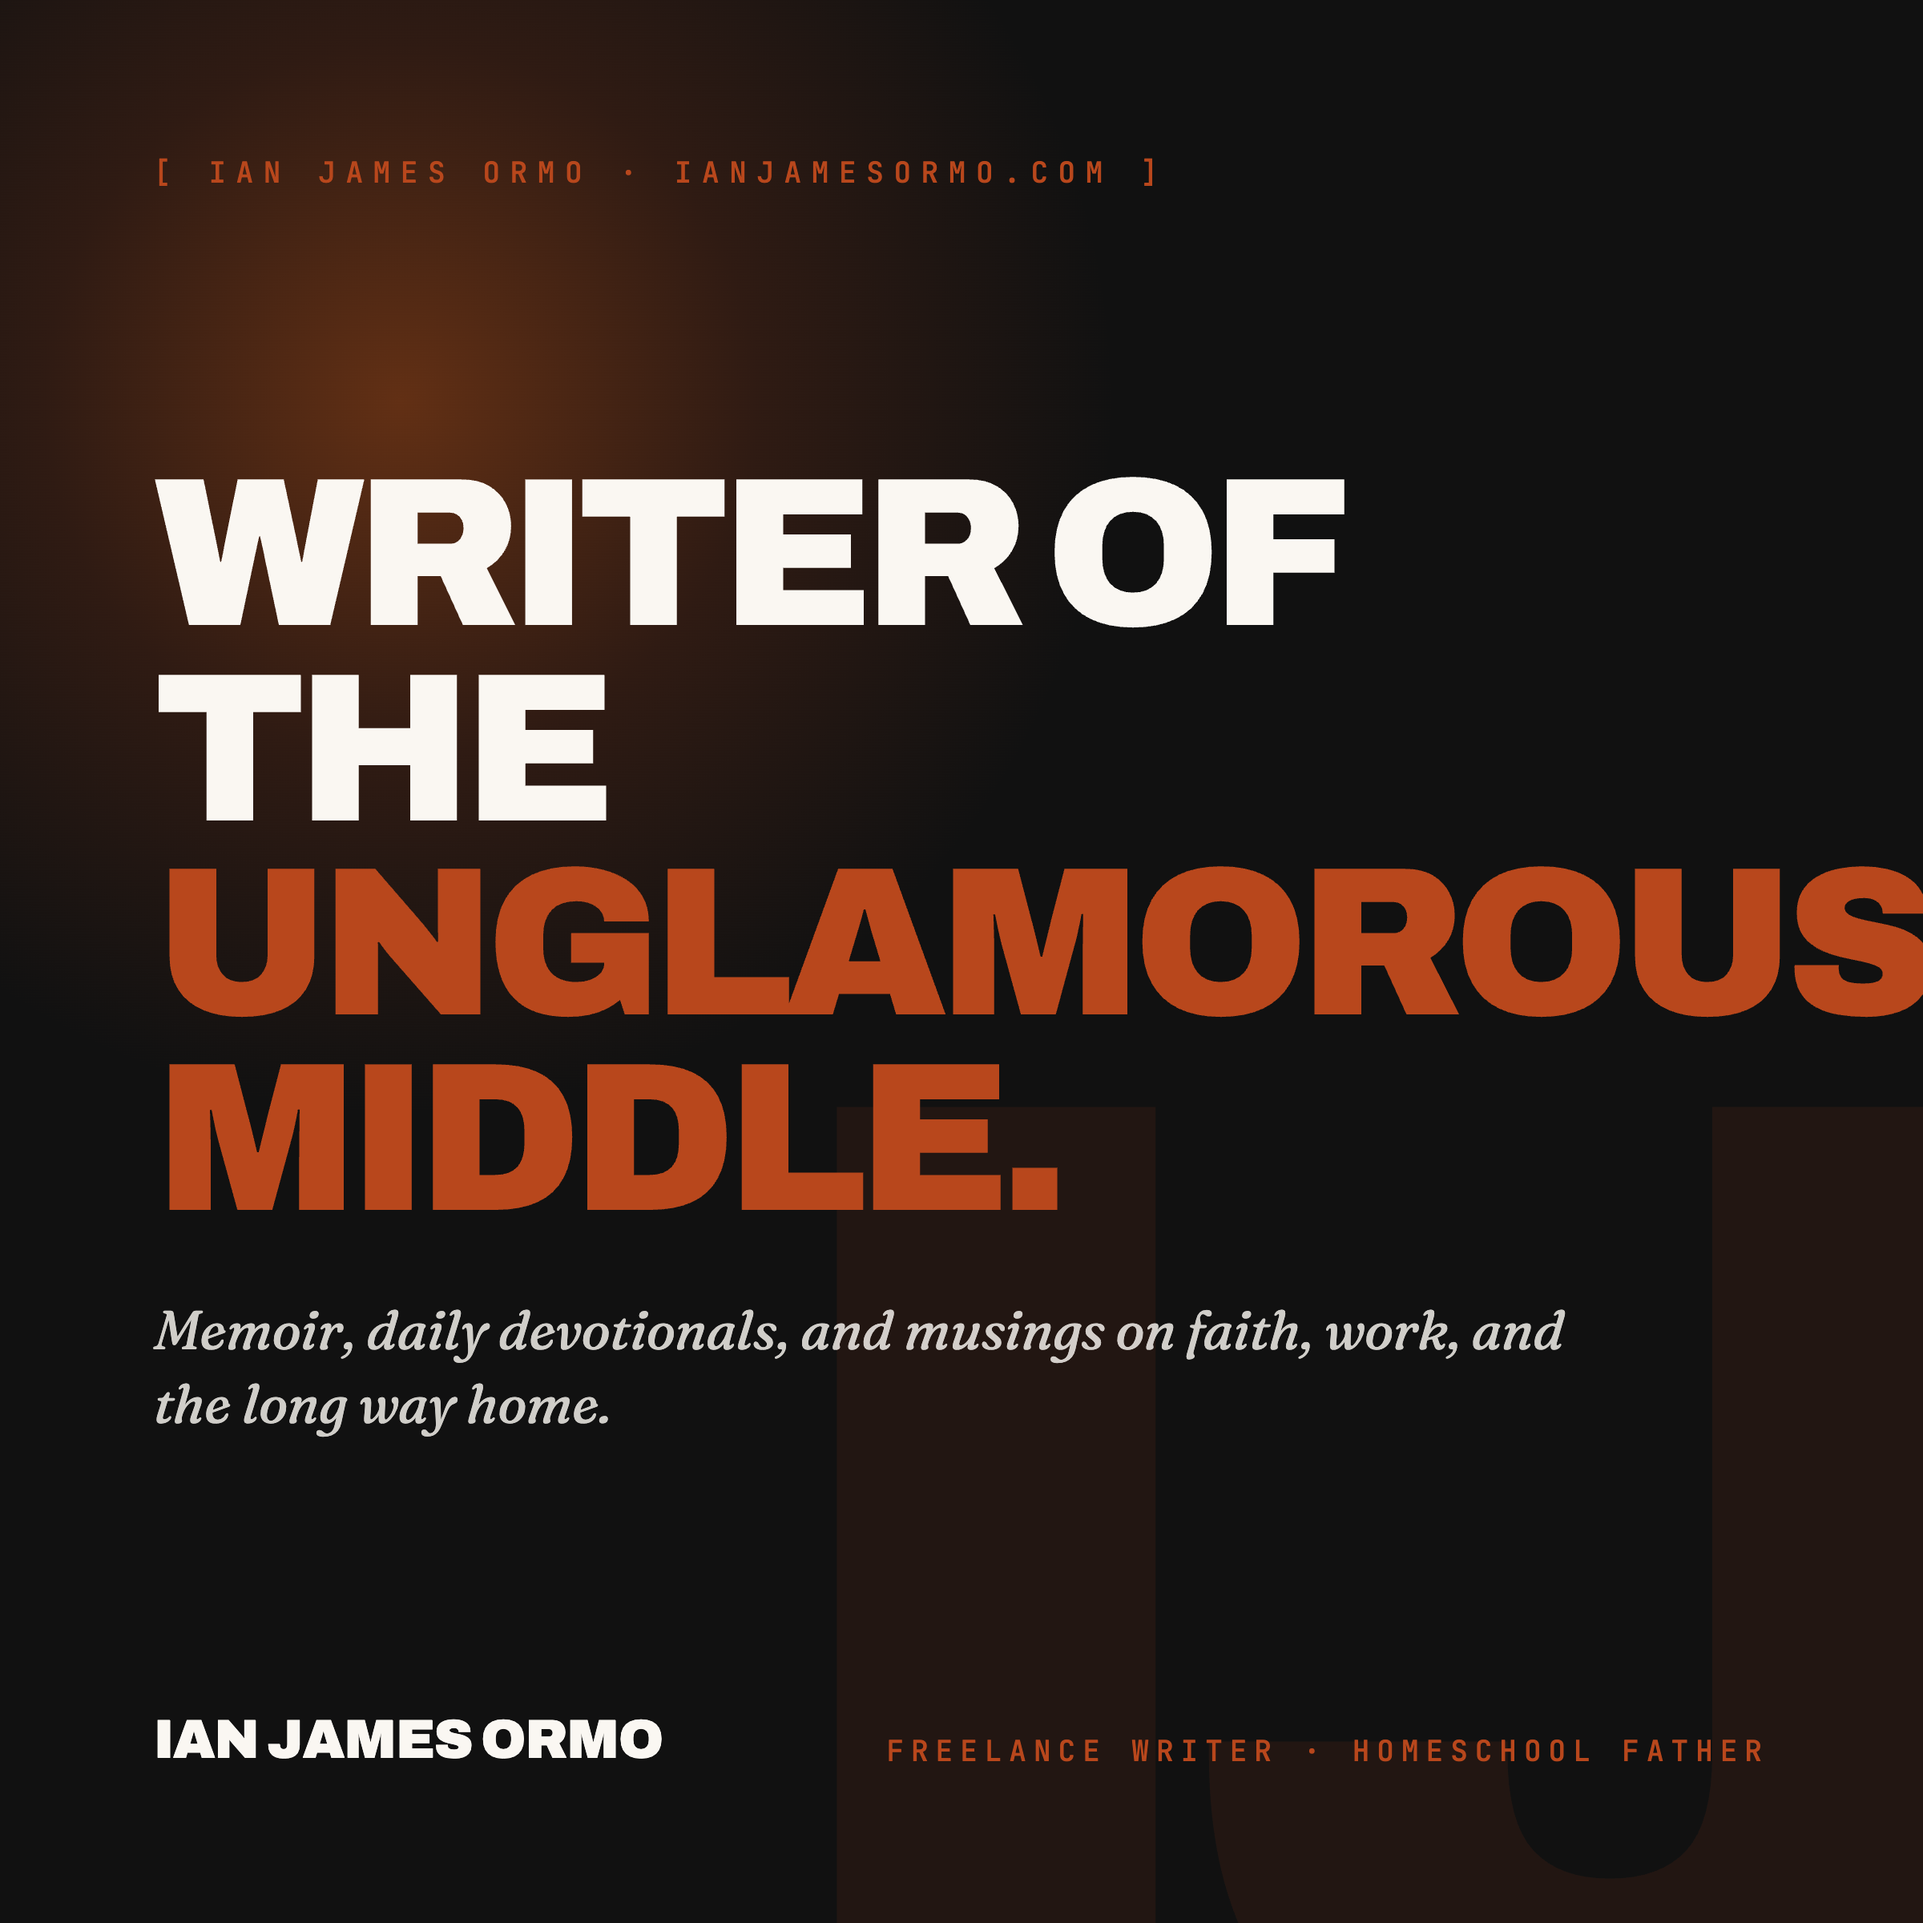
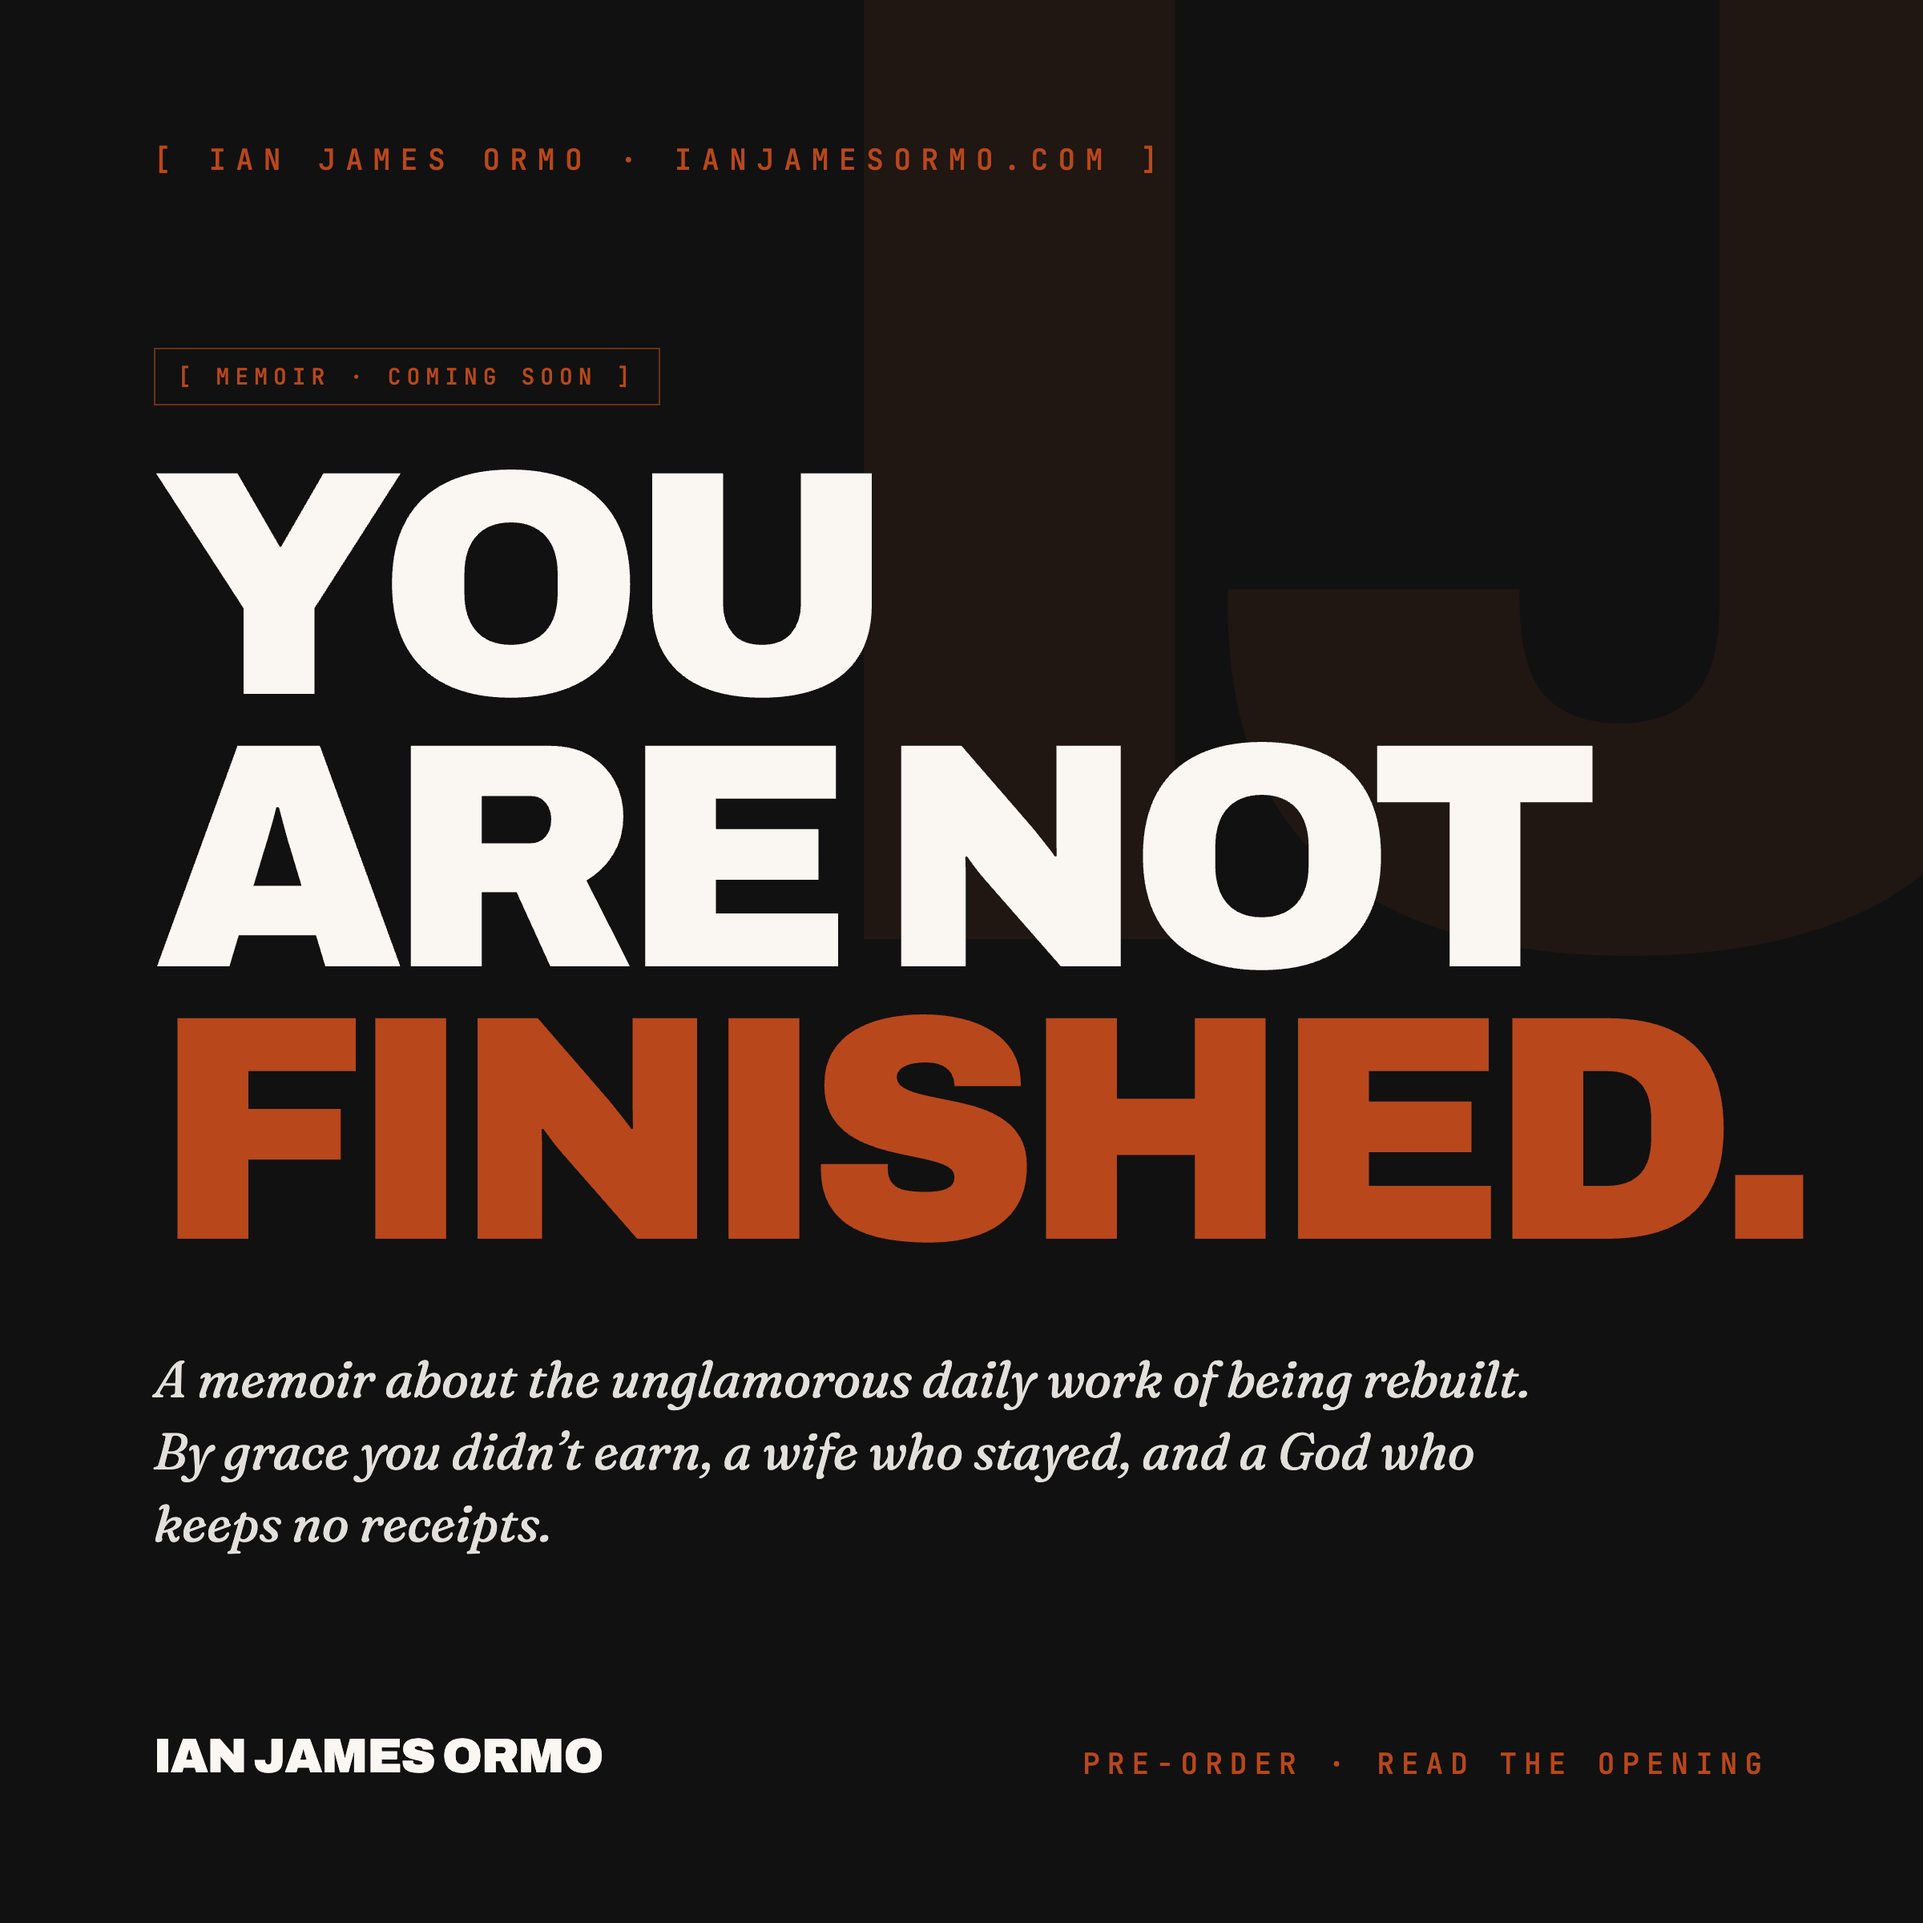
Homepage social share: regenerate OG card to mirror live hero
- Updates scripts/gen-site-og.js so the 1200×1200 share image mirrors the
  actual homepage hero — "You / are not / finished." with the last word
  in copper, the memoir tagline, and the IJ watermark — instead of the
  earlier "Writer of the unglamorous middle" placeholder copy.
- Drops "Self-Help Author" framing across <title>, og:title, twitter:title,
  and meta description so the tab, the share preview, and the on-page hero
  all say the same thing: Freelance Writer · Homeschool Father.
- Hardens the Puppeteer wait so Google Fonts CDN stalls no longer kill
  the build (domcontentloaded + bounded fonts.ready race).

diff --git a/index.html b/index.html
@@ -5,7 +5,7 @@
 <meta name="viewport" content="width=device-width, initial-scale=1" />
 <link rel="icon" type="image/svg+xml" href="/favicon.svg" />
 <title>Ian James Ormo — Freelance Writer · Homeschool Father</title>
-<meta name="description" content="Self-help books, daily devotionals, and musings on faith, work, and freelancing by Ian James Ormo — author and writer based in the Philippines." />
+<meta name="description" content="Memoir, daily devotionals, and musings on faith, work, and freelancing by Ian James Ormo — freelance writer and homeschool father based in the Philippines." />
 <meta name="keywords" content="self-help author Philippines, freelance writer Philippines, Christian writer Cebu, self-help books Philippines, faith and work writer, freelancing Philippines, daily devotional Philippines, Ian James Ormo writer, Filipino author self-help, call center consultant Philippines, remote work Philippines, AI automation consultant, freelance automation expert Philippines, remote writer Philippines, AI consultant Philippines, business process automation" />
 <meta name="robots" content="index, follow" />
 <meta name="author" content="Ian James Ormo" />
@@ -18,16 +18,16 @@
 <link rel="canonical" href="https://ianjamesormo.com/" />
 <meta property="og:type" content="website" />
 <meta property="og:site_name" content="Ian James Ormo" />
-<meta property="og:title" content="Ian James Ormo — Self-Help Author & Freelance Writer | Philippines" />
-<meta property="og:description" content="Self-help books, daily devotionals, and musings on faith, work, and freelancing by Ian James Ormo — author and writer based in the Philippines." />
+<meta property="og:title" content="Ian James Ormo — Freelance Writer · Homeschool Father" />
+<meta property="og:description" content="Memoir, daily devotionals, and musings on faith, work, and freelancing by Ian James Ormo — freelance writer and homeschool father based in the Philippines." />
 <meta property="og:url" content="https://ianjamesormo.com/" />
 <meta property="og:image" content="https://ianjamesormo.com/og/default-site.png" />
 <meta property="og:image:width" content="1200" />
 <meta property="og:image:height" content="1200" />
 <meta name="twitter:image" content="https://ianjamesormo.com/og/default-site.png" />
 <meta name="twitter:card" content="summary_large_image" />
-<meta name="twitter:title" content="Ian James Ormo — Self-Help Author & Freelance Writer | Philippines" />
-<meta name="twitter:description" content="Self-help books, daily devotionals, and musings on faith, work, and freelancing by Ian James Ormo — author and writer based in the Philippines." />
+<meta name="twitter:title" content="Ian James Ormo — Freelance Writer · Homeschool Father" />
+<meta name="twitter:description" content="Memoir, daily devotionals, and musings on faith, work, and freelancing by Ian James Ormo — freelance writer and homeschool father based in the Philippines." />
 <script type="application/ld+json">{"@context":"https://schema.org","@graph":[{"@type":"Person","@id":"https://ianjamesormo.com/#person","name":"Ian James Ormo","alternateName":["Ian James","Ian Ormo"],"url":"https://ianjamesormo.com/","image":"https://ianjamesormo.com/images/ian-author.png","jobTitle":["Self-Help Author","Freelance Writer","AI Automation Consultant","Remote Work Consultant","Call Center Executive (former)","Tech Freelancer","Founder"],"description":"Self-help author, freelance writer, AI and automation consultant, and remote work specialist based in the Philippines. Writes on faith, work, freelancing, call center life, and the unglamorous middle.","knowsAbout":["Self-Help","Freelancing","Remote Work","AI Automation","Artificial Intelligence","Business Process Automation","Call Center Operations","Consulting","Christian Devotionals","Memoir Writing","Career Change","Tech Consulting","Faith and Work","Writing"],"address":{"@type":"PostalAddress","addressRegion":"Philippines","addressCountry":"PH"},"homeLocation":{"@type":"Place","name":"Philippines","address":{"@type":"PostalAddress","addressRegion":"Philippines","addressCountry":"PH"}},"worksFor":{"@type":"Organization","name":"ScalePlus"},"sameAs":["https://www.instagram.com/ianjamesormo"]},{"@type":"WebSite","@id":"https://ianjamesormo.com/#website","url":"https://ianjamesormo.com/","name":"Ian James Ormo","inLanguage":"en-PH","description":"Self-help books, daily devotionals, and musings on faith, work, and freelancing from the Philippines.","keywords":"self-help author Philippines, freelance writer Philippines, Christian writer, daily devotional Philippines","author":{"@id":"https://ianjamesormo.com/#person"},"publisher":{"@id":"https://ianjamesormo.com/#person"},"potentialAction":{"@type":"SearchAction","target":"https://ianjamesormo.com/musings.html?q={search_term_string}","query-input":"required name=search_term_string"}},{"@type":"ProfessionalService","name":"Ian James Ormo — Writer & Freelance Consultant","areaServed":{"@type":"AdministrativeArea","name":"Philippines"},"provider":{"@id":"https://ianjamesormo.com/#person"},"serviceType":["Self-Help Writing","Freelance Consulting","AI Automation","Remote Work Consulting","Call Center Advisory","Business Process Automation","Tech Consulting","Speaking"]}]}</script>
 
 

diff --git a/scripts/gen-site-og.js b/scripts/gen-site-og.js
@@ -18,6 +18,10 @@ const CHROME_PATHS = [
 // iMessage, Instagram) and renders cleanly at any crop ratio.
 const SIZE = 1200;
 
+// Mirrors the live homepage hero (index.html → <Hero/>): same dark ink
+// background, oversized "IJ" watermark, "You / are not / finished." headline
+// with the last word in copper, and the memoir tagline. Anyone seeing this
+// share preview should recognize the page they're about to land on.
 const HTML = `<!doctype html>
 <html>
 <head>
@@ -32,25 +36,22 @@ const HTML = `<!doctype html>
     width:${SIZE}px; height:${SIZE}px;
     background: #111111;
     position: relative;
-    padding: 96px 96px;
+    padding: 88px 96px;
     box-sizing: border-box;
     display: flex;
     flex-direction: column;
     justify-content: space-between;
+    overflow: hidden;
   }
-  /* Warm copper glow top-left */
-  .card::before {
-    content:''; position:absolute; top:-200px; left:-200px;
-    width:900px; height:900px;
-    background: radial-gradient(circle at center, rgba(210,90,25,.42) 0%, rgba(184,71,28,.18) 35%, transparent 70%);
-    pointer-events:none;
-  }
-  /* Secondary glow bottom-right */
-  .card::after {
-    content:'IJ'; position:absolute; right: -80px; bottom: -260px;
-    font-family: Archivo, sans-serif; font-weight:900; font-size: 900px;
-    color: #B8471C; opacity: .10; line-height: 1; letter-spacing: -.06em;
-    pointer-events: none;
+  /* Oversized "IJ" watermark — matches the homepage hero exactly */
+  .watermark {
+    position: absolute;
+    top: -60px; right: -80px;
+    font-family: Archivo, sans-serif;
+    font-weight: 900; font-size: 880px;
+    color: #B8471C; opacity: .09;
+    line-height: .8; letter-spacing: -.06em;
+    pointer-events: none; user-select: none;
   }
   .kicker {
     font-family: 'JetBrains Mono', monospace;
@@ -61,40 +62,50 @@ const HTML = `<!doctype html>
   .middle { z-index: 2; position: relative; }
   .headline {
     font-family: Archivo, sans-serif;
-    font-weight: 900; font-size: 132px;
-    letter-spacing: -0.048em;
+    font-weight: 900; font-size: 200px;
+    letter-spacing: -0.05em;
     text-transform: uppercase;
-    line-height: .92;
-    max-width: 1000px;
-    margin: 0 0 36px;
+    line-height: .85;
+    margin: 0 0 48px;
   }
   .headline .copper { color:#B8471C; }
   .tagline {
     font-family: Fraunces, Georgia, serif;
     font-style: italic; font-weight: 400;
-    font-size: 34px; line-height: 1.35;
-    color: rgba(250,247,242,.82);
-    max-width: 920px;
+    font-size: 32px; line-height: 1.4;
+    color: rgba(250,247,242,.9);
+    max-width: 880px;
     margin: 0;
   }
   .bottom {
     display: flex; justify-content: space-between; align-items: flex-end;
     z-index: 2; position: relative;
   }
-  .name { font-family: Archivo, sans-serif; font-size: 34px; font-weight: 900; letter-spacing: -.02em; text-transform: uppercase; }
+  .name { font-family: Archivo, sans-serif; font-size: 30px; font-weight: 900; letter-spacing: -.02em; text-transform: uppercase; }
   .url  { font-family: 'JetBrains Mono', monospace; font-size: 18px; color:#B8471C; letter-spacing: .25em; text-transform: uppercase; text-align: right; }
+  .pill {
+    display: inline-block;
+    font-family: 'JetBrains Mono', monospace;
+    font-size: 14px; color:#B8471C;
+    letter-spacing: .25em; text-transform: uppercase;
+    border: 1px solid rgba(184,71,28,.55);
+    padding: 8px 14px;
+    margin-bottom: 28px;
+  }
 </style>
 </head>
 <body>
   <div class="card">
+    <div class="watermark">IJ</div>
     <div class="kicker">[ Ian James Ormo · ianjamesormo.com ]</div>
     <div class="middle">
-      <h1 class="headline">Writer of the<br/><span class="copper">unglamorous middle.</span></h1>
-      <p class="tagline">Memoir, daily devotionals, and musings on faith, work, and the long way home.</p>
+      <div class="pill">[ Memoir · Coming soon ]</div>
+      <h1 class="headline">You<br/>are not<br/><span class="copper">finished.</span></h1>
+      <p class="tagline">A memoir about the unglamorous daily work of being rebuilt. By grace you didn&rsquo;t earn, a wife who stayed, and a God who keeps no receipts.</p>
     </div>
     <div class="bottom">
       <div class="name">Ian James Ormo</div>
-      <div class="url">Freelance Writer · Homeschool Father</div>
+      <div class="url">Pre-order · Read the opening</div>
     </div>
   </div>
 </body>
@@ -111,9 +122,13 @@ async function main() {
   });
   const page = await browser.newPage();
   await page.setViewport({ width: SIZE, height: SIZE, deviceScaleFactor: 2 });
-  await page.setContent(HTML, { waitUntil: 'networkidle0' });
-  await page.evaluateHandle('document.fonts.ready');
-  await new Promise(r => setTimeout(r, 450));
+  await page.setContent(HTML, { waitUntil: 'domcontentloaded', timeout: 15000 });
+  // Wait up to 8s for webfonts to load — Google Fonts CDN can stall.
+  await Promise.race([
+    page.evaluateHandle('document.fonts.ready'),
+    new Promise(r => setTimeout(r, 8000)),
+  ]);
+  await new Promise(r => setTimeout(r, 600));
 
   const outPath = path.join(__dirname, '..', 'og', 'default-site.png');
   await page.screenshot({ path: outPath });
